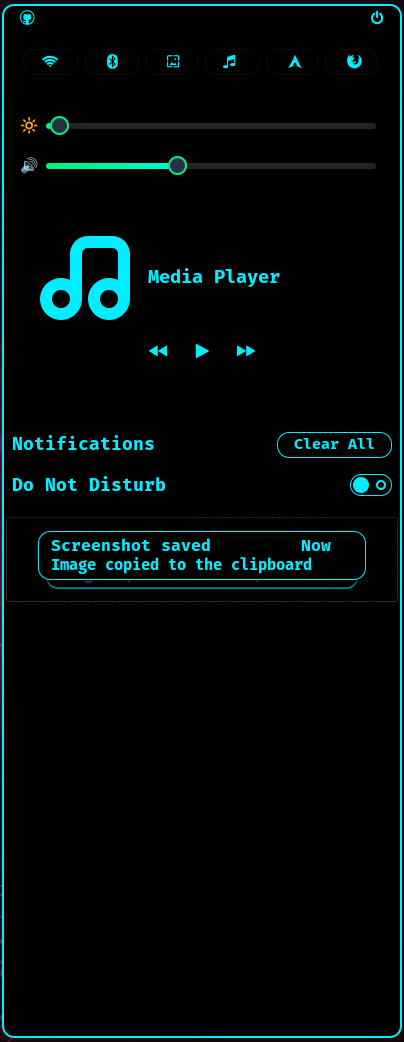
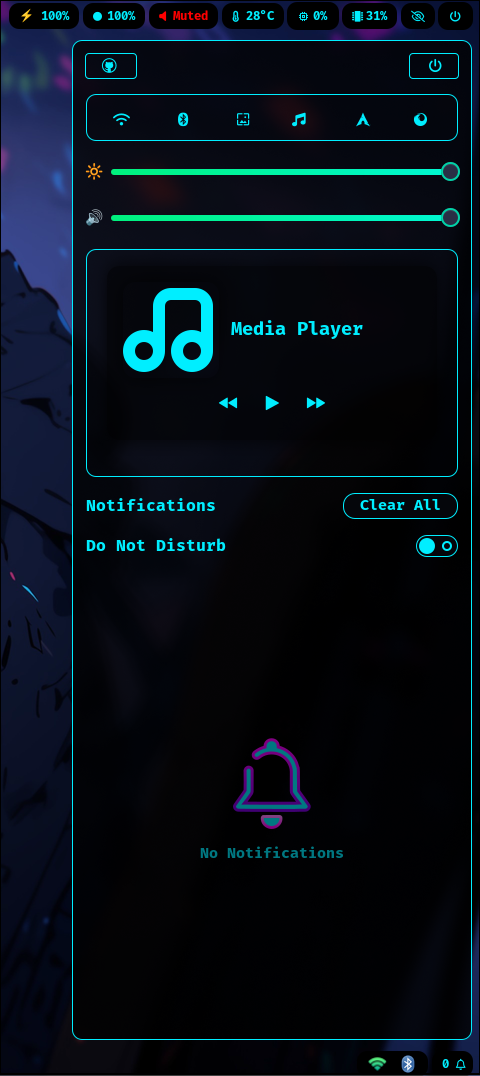
update readme

diff --git a/.config/swaync/style.css b/.config/swaync/style.css
@@ -4,41 +4,45 @@
     font-weight: bold;
 }
 
+.control-center .notification-row {
+    background-color: unset;
+}
+
 /* Notification Row */
 .notification-row:focus,
 .notification-row:hover {
-    background: black;
+    background: #05060B;
 }
 
 /* Notification */
 .notification {
-    background: black;
+    background: rgba(0, 0, 0, 0.8);
     color: rgb(0, 238, 255);
     border: 1px solid rgb(0, 238, 255);
+    border-radius: 10px;
 }
 .notification .critical {
-    background: black;
     color: red;
 }
 
 .notification-content {
-    background: black;
+    background: #05060B;
 }
 
 .close-button {
-    background: black;
+    background: #05060B;
     color: rgb(0, 238, 255);
 }
 
 .close-button:hover {
     background: rgb(0, 238, 255);
-    color : black;
+    color : #05060B;
 }
 
 /* Notification Actions */
 .notification-default-action,
 .notification-action {
-    background: black;
+    background: #05060B;
     border: 1px solid rgb(0, 238, 255);
     color: rgb(0, 238, 255);
 }
@@ -47,8 +51,8 @@
 .notification-action:hover {
     background: rgb(0, 238, 255);
     background-image: linear-gradient(45deg, #FA8BFF 0%, #2BD2FF 52%, #FA8BFF 90%);
-    color: black;
-    border: 1px solid black;
+    color: #05060B;
+    border: 1px solid #05060B;
 }
 
 /* The "extra" optional bottom notification image */
@@ -72,26 +76,25 @@
 .inline-reply .inline-reply-entry {
     color: rgb(0, 238, 255);
     caret-color: rgb(0, 238, 255);
-    background: black;
+    background: #05060B;
 }
 
 .inline-reply-button {
     color: rgb(0, 238, 255);
-    background: black;
+    background: #05060B;
 }
 .inline-reply-button:disabled {
     color: rgb(248, 115, 237);
-    background: black;
 }
 .inline-reply-button:hover {
     background: rgb(0, 238, 255);
     background-image: linear-gradient(45deg, #FA8BFF 0%, #2BD2FF 52%, #FA8BFF 90%);
-    color: black;
+    color: #05060B;
 }
 
 /* Styling only for Grouped Notifications */
 .notification-group {
-    background: black;
+    background: #05060B;
     color: rgb(0, 238, 255);
     border: none;
 }
@@ -103,14 +106,17 @@
 }
 
 /* The Control Center which contains the old notifications + widgets */
+
 .control-center {
-    background: black;
+    background: rgba(0, 0, 0, 0.8);
     color: rgb(0, 238, 255);
-    border: 2px solid rgb(0, 238, 255);
+    border: 1px solid rgb(0, 238, 255);
+    border-radius: 10px;
+    padding: 5px;
 }
 .control-center .notification-row:focus,
 .control-center .notification-row:hover {
-    background-color: black;
+    background-color: #05060B;
 }
 
 /* The list of notifications */
@@ -132,35 +138,35 @@
 /* Title widget */
 .widget-title {
     color: rgb(0, 238, 255);
-    font-size: large;
+    font-size: 16px;
 }
 
 .widget-title>button {
     color: rgb(0, 238, 255);
-    background: black;
+    background: #05060B;
     border: 1px solid rgb(0, 238, 255);
 }
 
 .widget-title>button:hover {
     background: rgb(0, 238, 255);
     background-image: linear-gradient(45deg, #FA8BFF 0%, #2BD2FF 52%, #FA8BFF 90%);
-    color: black;
+    color: #05060B;
 }
 
 /* DND widget */
 .widget-dnd {
     color: rgb(0, 238, 255);
-    font-size: large;
+    font-size: 16px;
 }
 
 .widget-dnd>switch {
     color: rgb(0, 238, 255);
-    background: black;
+    background: #05060B;
     border: 1px solid rgb(0, 238, 255);
 }
 
 .widget-dnd>switch:checked {
-    background: black;
+    background: #05060B;
 }
 
 .widget-dnd>switch slider {
@@ -174,16 +180,23 @@
 }
 .widget-inhibitors>button {
     color: rgb(0, 238, 255);
-    background: black;
+    background: #05060B;
     border: 1px solid rgb(0, 238, 255);
 }
 .widget-inhibitors>button:hover {
     background: rgb(0, 238, 255);
     background-image: linear-gradient(45deg, #FA8BFF 0%, #2BD2FF 52%, #FA8BFF 90%);
-    color: black;
+    color: #05060B;
 }
 
 /* Mpris widget */
+.widget-mpris {
+    margin: 8px;
+    border: 1px solid rgb(0, 238, 255);
+    border-radius: 10px;
+    /* box-shadow: rgb(0, 238, 255) 0px 20px 20px -20px, rgb(0, 238, 255) 0px 20px 20px -20px, rgb(0, 238, 255) 0px -2px 6px 0px inset; */
+}
+
 .widget-mpris,
 .widget-mpris-player,
 .widget-mpris-title,
@@ -195,50 +208,54 @@
 .widget-mpris-player>box>button:hover {
     background: rgb(0, 238, 255);
     background-image: linear-gradient(45deg, #FA8BFF 0%, #2BD2FF 52%, #FA8BFF 90%);
-    color: black;
+    color: #05060B;
 }
 
 /* Volume and Brightness Widget*/
-.widget-volume {
-    background-color: black;
-    padding: 4px 8px 8px 8px;
-    margin: 0px 8px 8px 8px;
-    border-bottom-left-radius: 12px;
-    border-bottom-right-radius: 12px;
+/* Volume and Brightness Widget*/
+.widget-volume,
+.widget-backlight {
+    background-color: transparent;
+    padding: 5px;
+    margin: 2px;
 }
 
-.widget-backlight {
-    background-color: black;
-    padding: 8px 8px 4px 8px;
-    margin: 8px 8px 0px 8px;
-    border-top-left-radius: 12px;
-    border-top-right-radius: 12px;
+.widget-menubar {
+    background-color: transparent;
+    padding: 5px;
+    margin: 2px;
+    border-radius: 10px;
 }
 
 .dotfiles-buttons,
 .power-buttons {
     color: rgb(0, 238, 255);
     background-color: transparent;
-    padding: 8px;
-    margin: 8px;
-    border-radius: 12px;
+    padding: 0px;
+    margin: 5px 0px;
+    border-radius: 10px;
 }
 
 .dotfiles-buttons>button,
 .power-buttons>button {
     color: rgb(0, 238, 255);
     background: transparent;
+    margin: 2px;
+    padding: 2px;
+    border: 1px solid rgb(0, 238, 255);
+    border-radius: 5px;
 }
 
 .dotfiles-buttons>button:hover,
 .power-buttons>button:hover {
     background: rgb(0, 238, 255);
     background-image: linear-gradient(45deg, #FA8BFF 0%, #2BD2FF 52%, #FA8BFF 90%);
-    color: black;
+    color: #05060B;
 }
 
 /* Menubar */
 .widget-menubar>box>.menu-button-bar>button {
+    border: 1px solid rgb(0, 238, 255);
     color: rgb(0, 238, 255);
     background: transparent;
 }
@@ -246,21 +263,27 @@
 .widget-menubar>box>.menu-button-bar>button:hover {
     background: rgb(0, 238, 255);
     background-image: linear-gradient(45deg, #FA8BFF 0%, #2BD2FF 52%, #FA8BFF 90%);
-    color: black;
+    color: #05060B;
 }
 
 /** Buttons Grid **/
 .widget-buttons-grid {
     background-color: transparent;
+    border: 1px solid rgb(0, 238, 255);
+    padding: 5px;
+    border-radius: 10px;
 }
 
 .widget-buttons-grid>flowbox>flowboxchild>button {
+    border-radius: 10px;
+    margin-top: 5px;
+    border: 0px;
     color: rgb(0, 238, 255);
-    background: black;
+    background: transparent;
 }
 
 .widget-buttons-grid>flowbox>flowboxchild>button:hover {
     background: rgb(0, 238, 255);
     background-image: linear-gradient(45deg, #FA8BFF 0%, #2BD2FF 52%, #FA8BFF 90%);
-    color: black;
+    color: #05060B;
 }

diff --git a/README.md b/README.md
@@ -44,6 +44,9 @@ Bottom Bar
 
 ![image](https://github.com/EviLuci/dotfiles/blob/main/screenshots/CopyQ.png)
 
+### Hyprlock
+![image](https://github.com/EviLuci/dotfiles/blob/main/screenshots/hyprlock.png)
+
 ## Packages
 
 ### Necessary dependencies
